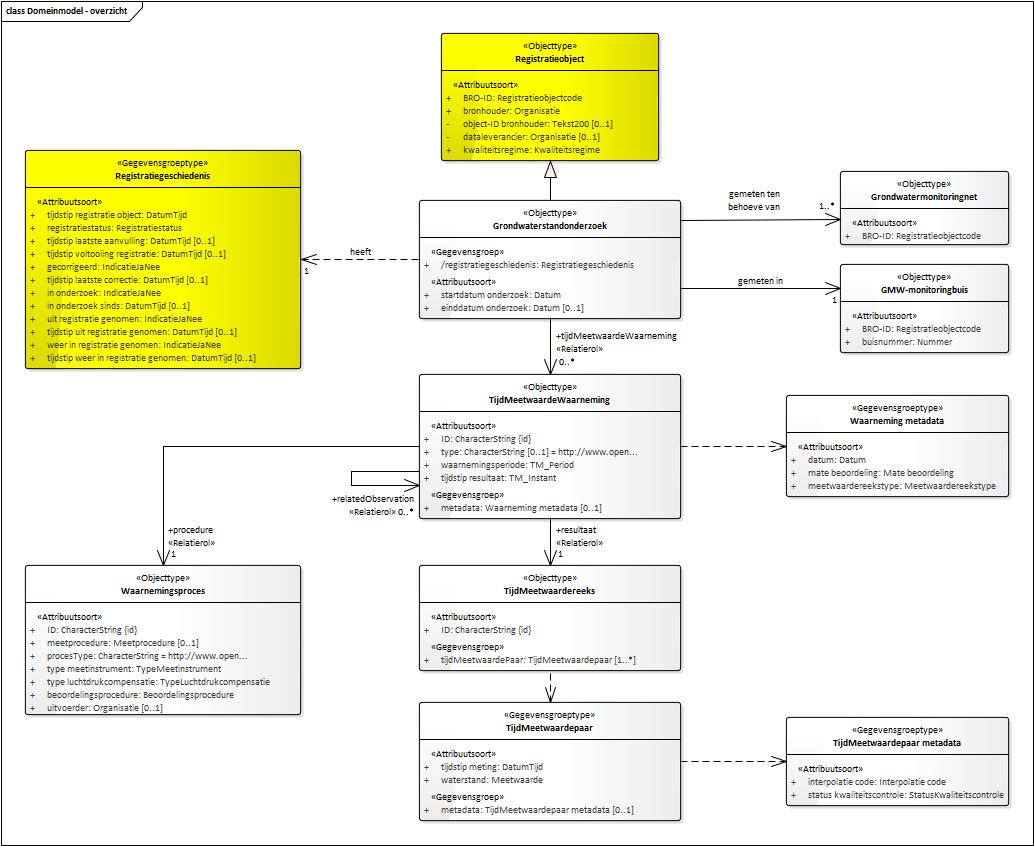
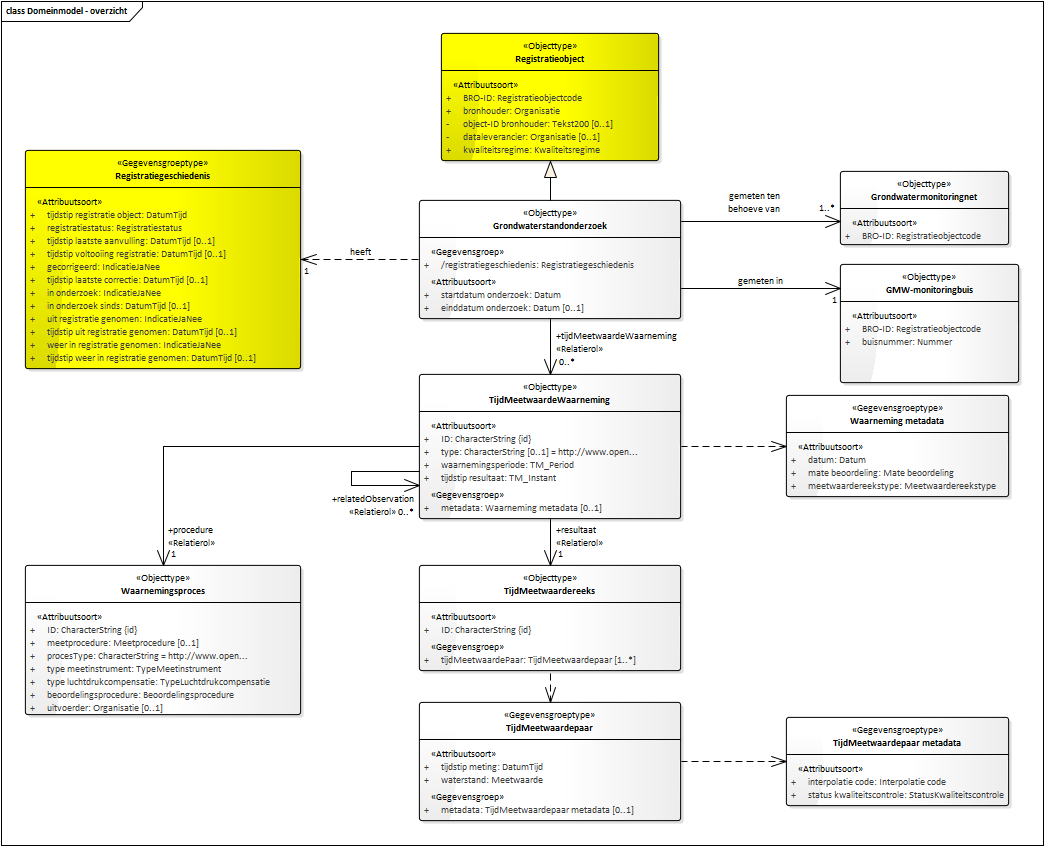
Conceptualmodel-GrondwaterstandonderzoekGLD-0.9-3-20191003-20191008-130733

diff --git a/data/GLD-cat.msword.html b/data/GLD-cat.msword.html
@@ -13,7 +13,7 @@
    <body>
       <p>Conceptual model/Grondwaterstandonderzoek (GLD)/20191003</p>
       <p>Imvertor: 1.55.2</p>
-      <p>Model release: Conceptualmodel-GrondwaterstandonderzoekGLD-0.9-3-20191003-20191008-103612</p>
+      <p>Model release: Conceptualmodel-GrondwaterstandonderzoekGLD-0.9-3-20191003-20191008-130733</p>
       <hr>
       <section id="global_class_Model_Registratieobject" level="3">
          <h1>Artikel 1     Registratieobject</h1>
@@ -2825,7 +2825,7 @@
                <area shape="rect" coords="840,245,1009,171" alt="" href="#graph_EAID_68FD3B87_BA7B_485e_A5DC_4804CB98C818">
                <area shape="rect" coords="419,821,681,702" alt="" href="#graph_EAID_5FC959F0_5ED2_47e7_8C6C_68C408128425">
                <area shape="rect" coords="25,369,301,150" alt="" href="#graph_EAID_0D009A59_1E9A_4fc2_867A_9006A9464AA7">
-               <area shape="rect" coords="840,353,1009,264" alt="" href="#graph_EAID_3337CDCE_0A5D_4aee_AEB0_14AF7652B102">
+               <area shape="rect" coords="840,383,1019,264" alt="" href="#graph_EAID_3337CDCE_0A5D_4aee_AEB0_14AF7652B102">
                <area shape="rect" coords="419,319,681,200" alt="" href="#graph_EAID_5876720F_795D_40b5_82B8_BC782B71FA3A">
                <area shape="rect" coords="441,161,659,33" alt="" href="#graph_EAID_04FC4CF0_BE4E_421a_A62C_E3F00BED26A0"></map><p><b>Domeinmodel</b></p>
          </div>
